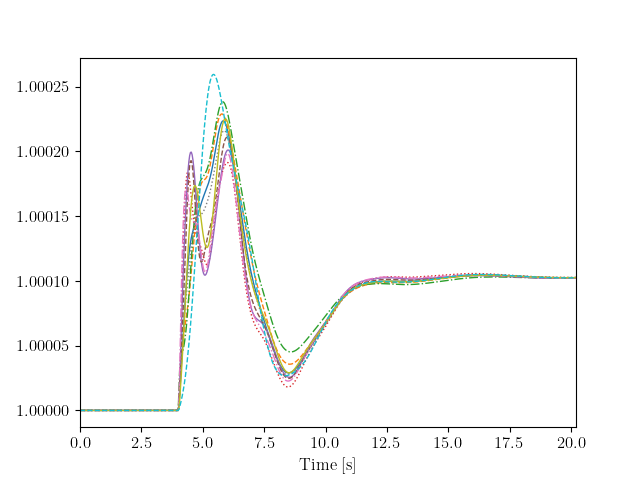
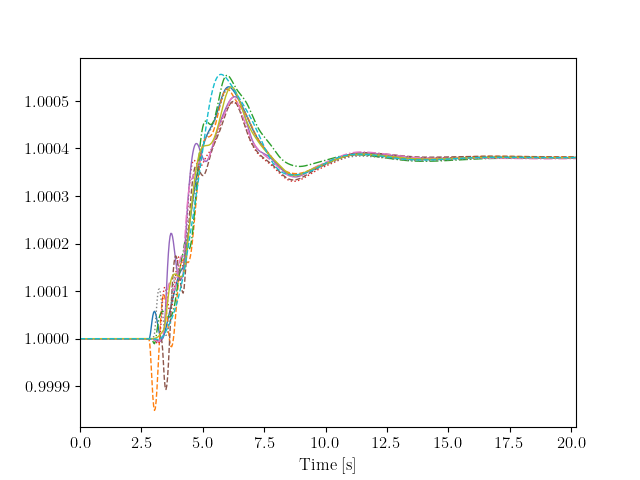
single mpc full

diff --git a/AndesRoles/example_mpc_marco.py b/AndesRoles/example_mpc_marco.py
@@ -262,15 +262,17 @@ def setup_mpc(self, mpc_problem, dt = 0.5, T = 20, controllable_redual = False):
     def freq_cost(model):
         return sum((model.freq[t]-1)**2 for t in model.TimeHorizon)
     def lagrangian_term(model):
-        a = sum( sum(mpc_problem.dual_vars[i, t]*(model.delta_areas[i,t] - model.state_horizon_values[i,t]) for i in model.other_areas) for t in model.TimeHorizon)
+        sign = 1 if self.area == 1 else -1
+        a = sum( sum(mpc_problem.dual_vars[i, t]*sign*(model.delta_areas[i,t] - model.state_horizon_values[i,t]) for i in model.other_areas) for t in model.TimeHorizon)
         b = 0
         for i, area in enumerate(model.areas):
             other_agent = mpc_problem.agents[i]
-            b += sum(mpc_problem.dual_vars[area, t]*(model.delta[t] - other_agent.state_horizon_values[area,t])  for t in model.TimeHorizon)
+            b += sum(mpc_problem.dual_vars[area, t]*sign*(model.delta[t] - other_agent.state_horizon_values[area,t])  for t in model.TimeHorizon)
         return a + b
     def penalty_term(model):
+        sign = 1 if self.area ==1 else -1
         a = sum( 10*sum((model.delta_areas[i,t] - model.state_horizon_values[i,t])**2 for i in model.other_areas) for t in model.TimeHorizon)
-        b = 10*sum((model.delta[t] - model.state_horizon_values[self.area,t])**2  for t in model.TimeHorizon)
+        b = 100*sum((model.delta[t] - model.state_horizon_values[self.area,t])**2  for t in model.TimeHorizon)
         return a+b
         
     model.cost = pyo.Objective(rule=lambda model: freq_cost(model) + lagrangian_term(model) + penalty_term(model), sense=pyo.minimize)
@@ -282,14 +284,14 @@ class mpc_agent:
         self.n_areas = 2
         self.alpha = 0.8
         self.dt = 0.2
-        self.tol = 1e-3
+        self.tol = 1e-5
         self.andes_url = andes_url 
         self.agent_id = agent_name
         self.area = int(self.agent_id[-1])
         responseAndes = requests.get(self.andes_url + '/assign_device', params = {'agent': self.agent_id})
         self.device_dict = responseAndes.json()
         self.t_start = time.time()
-        self.T = 20                            #number of timesteps when performing the MPC
+        self.T = 3                           #number of timesteps when performing the MPC
         
         self.areas = requests.get(andes_url + '/complete_variable_sync', params={'model':'Area', 'var':'idx'}).json()['value']
         self.other_areas = [i for i in self.areas if i != self.area]
@@ -372,8 +374,9 @@ def solve_mpc():
     agent_2 = mpc_agent("area_2")
     agents = [agent_1, agent_2]
     mpc_problem = mpc(agents)
+    mpc_problem.alpha = 10
     other = {"area_1": agent_2, "area_2": agent_1}
-    for i in range(30):
+    for i in range(100):
         responseAndes = requests.get(agent_1.andes_url + '/sync_time')
         time_start = int(responseAndes.json()['time'])
         for agent in agents:
@@ -393,9 +396,7 @@ def solve_mpc():
                     if key[0] != agent.area:
                         model.dual_vars[key] = val
 
-            for t in range(agent.T +1):
-                other_area = 1 if agent.area == 2 else 2
-                agent.state_horizon_values[other_area, t] = other_agent.state_horizon_values[other_area, t] 
+
 
             agent.warm_start()
             solver = pyo.SolverFactory('ipopt')
@@ -403,12 +404,17 @@ def solve_mpc():
             agent.save_warm_start()
             #we update the dual variables
 
-
+            agent.first = False
             #We get the current state_horizon and updated it with the solution for the agent's area
             for t in model.TimeHorizon:
-                agent.state_horizon_values[agent.area, t] = model.delta[t].value
+                #agent.state_horizon_values[agent.area, t] = model.delta[t].value
                 for other_agent in agents:
+                    other_area = other_agent.area
+                    if other_area == agent.area:
+                        continue
+                    #agent.state_horizon_values[other_area, t] = model.delta_areas[other_area, t].value
                     other_agent.state_horizon_values[agent.area, t] = model.delta[t].value
+                    other_agent.state_horizon_values[other_area, t] = model.delta_areas[other_area, t].value
 
         mpc_problem.delta_dual_vars = {k: 0 for k in mpc_problem.dual_vars}
         for t in range(mpc_problem.T+1):
@@ -416,12 +422,12 @@ def solve_mpc():
                 mpc_problem.delta_dual_vars[area, t] = mpc_problem.alpha*(mpc_problem.dual_vars[area, t] - agent.state_horizon_values[area, t])
                 mpc_problem.dual_vars[area, t] += mpc_problem.delta_dual_vars[area, t]
 
-        error = max(mpc_problem.dual_vars.values())
+        error = max(abs(v) for v in mpc_problem.dual_vars.values())
         andes_role_changes = []
         converged = False
         print("error is ", error)
         print(f"delta_dual_vars are {mpc_problem.delta_dual_vars[1,0]}")
-        if error < agent.tol:
+        if np.abs(error) < agent.tol:
             print(f"dist MPC converged")
             converged = True
 
@@ -457,14 +463,20 @@ def solve_mpc():
         print(f"error is {error}")
     return converged, andes_role_changes, agents
 
-
 andes_url = 'http://192.168.10.137:5000'
 responseLoad = requests.post(andes_url + '/start_simulation')
 time.sleep(1)
 converged, andes_role_changes, agents = solve_mpc()
 print(f"converged is {converged}")
 
+model = agents[0].model
+agent = agents[0]
+for t in model.TimeHorizon:
+    print(f"delta[{t}] = {model.delta[t].value}")
+    print(f"delta other[{t}] = {agent.state_horizon_values[1,t]}")
+
 model = agents[1].model
-for i in model.TimeHorizon:
-    print(f"delta[{i}] = {model.delta[i].value}")
-    print(f"f[{i}] = {model.freq[i].value}")
+agent = agents[1]
+for t in model.TimeHorizon:
+    print(f"delta[{t}] = {model.delta[t].value}")
+    print(f"delta other[{t}] = {agent.state_horizon_values[2,t]}")
